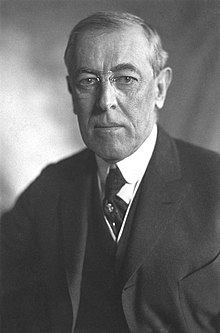
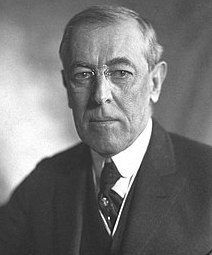
quiz results added
images updated, description for images added. CSS fixes.

diff --git a/quiz.html b/quiz.html
@@ -38,7 +38,7 @@
                             
                             <div class="form-check">
                                 <label class="form-check-label">
-                                    <input class="form-check-input" required type="radio" name="q1" value="2">
+                                    <input class="form-check-input" required type="radio" name="q1" value="2" >
                                     Strongly agree
                                 </label>
                             </div>
@@ -50,7 +50,7 @@
                             </div>
                             <div class="form-check">
                                 <label class="form-check-label">
-                                    <input class="form-check-input" required type="radio" name="q1" value="-1">
+                                    <input class="form-check-input" required type="radio" name="q1" value="-1" >
                                     Disagree
                                 </label>
                             </div>
@@ -78,7 +78,7 @@
                             </div>
                             <div class="form-check">
                                 <label class="form-check-label">
-                                    <input class="form-check-input" required type="radio" name="q2" value="-1">
+                                    <input class="form-check-input" required type="radio" name="q2" value="-1" >
                                     Agree
                                 </label>
                             </div>
@@ -90,7 +90,7 @@
                             </div>
                             <div class="form-check">
                                 <label class="form-check-label">
-                                    <input class="form-check-input" required type="radio" name="q2" value = "2" >
+                                    <input class="form-check-input" required type="radio" name="q2" value="2"  >
                                     Strongly disagree
                                 </label>
                             </div>
@@ -106,7 +106,7 @@
                             
                             <div class="form-check">
                                 <label class="form-check-label">
-                                    <input class="form-check-input" required type="radio" name="q3" value = "2" >
+                                    <input class="form-check-input" required type="radio" name="q3" value="2"  >
                                     Strongly agree
                                 </label>
                             </div>
@@ -118,7 +118,7 @@
                             </div>
                             <div class="form-check">
                                 <label class="form-check-label">
-                                    <input class="form-check-input" required type="radio" name="q3" value="-1">
+                                    <input class="form-check-input" required type="radio" name="q3" value="-1" >
                                     Disagree
                                 </label>
                             </div>
@@ -140,7 +140,7 @@
                             
                             <div class="form-check">
                                 <label class="form-check-label">
-                                    <input class="form-check-input" required type="radio" name="q4" value = "2" >
+                                    <input class="form-check-input" required type="radio" name="q4" value="2"  >
                                     Strongly agree
                                 </label>
                             </div>
@@ -152,7 +152,7 @@
                             </div>
                             <div class="form-check">
                                 <label class="form-check-label">
-                                    <input class="form-check-input" required type="radio" name="q4" value="-1">
+                                    <input class="form-check-input" required type="radio" name="q4" value="-1" >
                                     Disagree
                                 </label>
                             </div>
@@ -174,7 +174,7 @@
                             
                             <div class="form-check">
                                 <label class="form-check-label">
-                                    <input class="form-check-input" required type="radio" name="q5" value = "2" >
+                                    <input class="form-check-input" required type="radio" name="q5" value="2"  >
                                     Strongly agree
                                 </label>
                             </div>
@@ -186,7 +186,7 @@
                             </div>
                             <div class="form-check">
                                 <label class="form-check-label">
-                                    <input class="form-check-input" required type="radio" name="q5" value="-1">
+                                    <input class="form-check-input" required type="radio" name="q5" value="-1" >
                                     Disagree
                                 </label>
                             </div>
@@ -208,7 +208,7 @@
                             
                             <div class="form-check">
                                 <label class="form-check-label">
-                                    <input class="form-check-input" required type="radio" name="q6" value = "2" >
+                                    <input class="form-check-input" required type="radio" name="q6" value="2"  >
                                     Strongly agree
                                 </label>
                             </div>
@@ -220,7 +220,7 @@
                             </div>
                             <div class="form-check">
                                 <label class="form-check-label">
-                                    <input class="form-check-input" required type="radio" name="q6" value="-1">
+                                    <input class="form-check-input" required type="radio" name="q6" value="-1" >
                                     Disagree
                                 </label>
                             </div>
@@ -242,7 +242,7 @@
                             
                             <div class="form-check">
                                 <label class="form-check-label">
-                                    <input class="form-check-input" required type="radio" name="q7" value = "2" >
+                                    <input class="form-check-input" required type="radio" name="q7" value="2"  >
                                     Strongly agree
                                 </label>
                             </div>
@@ -254,7 +254,7 @@
                             </div>
                             <div class="form-check">
                                 <label class="form-check-label">
-                                    <input class="form-check-input" required type="radio" name="q7" value="-1">
+                                    <input class="form-check-input" required type="radio" name="q7" value="-1" >
                                     Disagree
                                 </label>
                             </div>
@@ -282,7 +282,7 @@
                             </div>
                             <div class="form-check">
                                 <label class="form-check-label">
-                                    <input class="form-check-input" required type="radio" name="q8" value="-1">
+                                    <input class="form-check-input" required type="radio" name="q8" value="-1" >
                                     Agree
                                 </label>
                             </div>
@@ -294,7 +294,7 @@
                             </div>
                             <div class="form-check">
                                 <label class="form-check-label">
-                                    <input class="form-check-input" required type="radio" name="q8" value = "2" >
+                                    <input class="form-check-input" required type="radio" name="q8" value="2"  >
                                     Strongly disagree
                                 </label>
                             </div>
@@ -310,7 +310,7 @@
                             
                             <div class="form-check">
                                 <label class="form-check-label">
-                                    <input class="form-check-input" required type="radio" name="q9" value = "2" >
+                                    <input class="form-check-input" required type="radio" name="q9" value="2"  >
                                     Strongly agree
                                 </label>
                             </div>
@@ -322,7 +322,7 @@
                             </div>
                             <div class="form-check">
                                 <label class="form-check-label">
-                                    <input class="form-check-input" required type="radio" name="q9" value="-1">
+                                    <input class="form-check-input" required type="radio" name="q9" value="-1" >
                                     Disagree
                                 </label>
                             </div>
@@ -344,7 +344,7 @@
                             
                             <div class="form-check">
                                 <label class="form-check-label">
-                                    <input class="form-check-input" required type="radio" name="q10" value = "2" >
+                                    <input class="form-check-input" required type="radio" name="q10" value="2"  >
                                     Strongly agree
                                 </label>
                             </div>
@@ -356,7 +356,7 @@
                             </div>
                             <div class="form-check">
                                 <label class="form-check-label">
-                                    <input class="form-check-input" required type="radio" name="q10" value="-1">
+                                    <input class="form-check-input" required type="radio" name="q10" value="-1" >
                                     Disagree
                                 </label>
                             </div>
@@ -384,7 +384,7 @@
                             </div>
                             <div class="form-check">
                                 <label class="form-check-label">
-                                    <input class="form-check-input" required type="radio" name="q11" value="-1">
+                                    <input class="form-check-input" required type="radio" name="q11" value="-1" >
                                     Agree
                                 </label>
                             </div>
@@ -396,7 +396,7 @@
                             </div>
                             <div class="form-check">
                                 <label class="form-check-label">
-                                    <input class="form-check-input" required type="radio" name="q11" value = "2" >
+                                    <input class="form-check-input" required type="radio" name="q11" value="2"  >
                                     Strongly disagree
                                 </label>
                             </div>
@@ -418,7 +418,7 @@
                             </div>
                             <div class="form-check">
                                 <label class="form-check-label">
-                                    <input class="form-check-input" required type="radio" name="q12" value="-1">
+                                    <input class="form-check-input" required type="radio" name="q12" value="-1" >
                                     Agree
                                 </label>
                             </div>
@@ -430,7 +430,7 @@
                             </div>
                             <div class="form-check">
                                 <label class="form-check-label">
-                                    <input class="form-check-input" required type="radio" name="q12" value = "2" >
+                                    <input class="form-check-input" required type="radio" name="q12" value="2"  >
                                     Strongly disagree
                                 </label>
                             </div>
@@ -446,7 +446,7 @@
                             
                             <div class="form-check">
                                 <label class="form-check-label">
-                                    <input class="form-check-input" required type="radio" name="q13" value = "2" >
+                                    <input class="form-check-input" required type="radio" name="q13" value="2"  >
                                     Strongly agree
                                 </label>
                             </div>
@@ -458,7 +458,7 @@
                             </div>
                             <div class="form-check">
                                 <label class="form-check-label">
-                                    <input class="form-check-input" required type="radio" name="q13" value="-1">
+                                    <input class="form-check-input" required type="radio" name="q13" value="-1" >
                                     Disagree
                                 </label>
                             </div>
@@ -486,7 +486,7 @@
                             </div>
                             <div class="form-check">
                                 <label class="form-check-label">
-                                    <input class="form-check-input" required type="radio" name="q14" value="-1">
+                                    <input class="form-check-input" required type="radio" name="q14" value="-1" >
                                     Agree
                                 </label>
                             </div>
@@ -498,7 +498,7 @@
                             </div>
                             <div class="form-check">
                                 <label class="form-check-label">
-                                    <input class="form-check-input" required type="radio" name="q14" value = "2">
+                                    <input class="form-check-input" required type="radio" name="q14" value="2" >
                                     Strongly disagree
                                 </label>
                             </div>
@@ -515,11 +515,12 @@
         <section id="afterQuiz" class="py-5 fullscreen">
             <div class="container introTxt">
                 <div id="ideoTxt">
-                    <h2>Your Ideology is: <span id="ideoShow"></span></h2>
+                    <h2>Your Ideology is: <br><span id="ideoShow"></span></h2>
                     <p id="showDesc"></p>
                 </div>
                 <div id="ideoAside">
                     <img alt="Ideology Image" id="ideoImg">
+                    <p class="text-muted font-italic mb-0 mt-1" id="imgDesc"></p>
                 </div>
             </div>
         </section>

diff --git a/js/ideologies.js b/js/ideologies.js
@@ -16,7 +16,7 @@ var ideologiesList = [
 //a class for ideologies
 class ideology{
     //the constructor
-    constructor(xmin, xmax, ymin, ymax, name, description){
+    constructor(xmin, xmax, ymin, ymax, name, description, image, imageDesc){
         //smallest x position on the political compass
         this.xmin = xmin;
         //highest x position on the political compass
@@ -28,20 +28,23 @@ class ideology{
         this.name = name;
         //the description of the ideology
         this.description = description;
+        //the name of the image + description of the image for this ideology
+        this.image = image;
+        this.imageDesc = imageDesc;
     }
 }
 
 //an array of all of the ideologies, instances of the ideology class.
 var ideologyObjects = [
-     facism = new ideology(0,14,8,14, "Fascism", "Fascism is a form of government which is a type of one-party dictatorship. Fascists are against democracy. They work for a totalitarian one-party state. This aim is to prepare the nation for armed conflict, and to respond to economic difficulties."),
-     conservatism = new ideology(2,14,2,8, "Conservatism", "Conservatism (or conservativism) is any political philosophy that favors tradition (in the sense of various religious, cultural, or nationally-defined beliefs and customs) in the face of external forces for change, and is critical of proposals for radical social change."),
-     ancap = new ideology(3,14,-14,-6, "Anarcho-Capitalism", "Anarcho-capitalism is a political philosophy and modern school of anarchist thought that advocates the elimination of centralized state domination in favor of self-ownership, private property and free markets."),
-     classlib = new ideology(2,14,-6,2, "Classical-Liberalism", "Classical liberalism. Classical liberalism is a political philosophy and ideology belonging to liberalism in which primary emphasis is placed on securing the freedom of the individual by limiting the power of the government."),
-     centre_right = new ideology(0,2,-6,8, "Centre-Right", "Centre-right politics, also referred to as moderate-right politics, are politics that lean to the right of the left-right political spectrum, but are closer to the centre than other right-wing variants. From the 1780s to the 1880s, there was a shift in the Western world of social class structure and the economy, moving away from the nobility and mercantilism, and moving towards the bourgeoisie and capitalism. "),
-     marxism = new ideology(-14,0,8,14, "Communism", "Communism is a political and economic system that seeks to create a classless society in which the major means of production, such as mines and factories, are owned and controlled by the public."),
-     socialism = new ideology(-14,-2,0,8, "Socialism", "Socialism is a range of economic and social systems characterised by social ownership of the means of production and workers' self-management, as well as the political theories and movements associated with them."),
-     ancom = new ideology(-14,-3,-14,-8, "Anarcho-Communism", "Anarchist communism advocates the abolition of the state, private property and capitalism in favor of common ownership or control of the means of production. Only through such collective control, it argues, can \"the individual\" be free of governmental domination and economic, that is, capitalist, exploitation. "),
-     demsoc = new ideology(-14,-2,-8,0, "Democratic-Socialism", "Democratic socialism is a political philosophy that advocates political democracy alongside a socially owned economy, with an emphasis on workers' self-management and democratic control of economic institutions within a market or some form of a decentralised planned socialist economy."),
-     centre_left = new ideology(-2,0,-8,8, "Centre-Left", "Centre-left politics are political views that lean to the left-wing political spectrum, but closer to the centre. Those on the centre-left believe in working within the established systems to improve social justice. The centre-left promotes a degree of social equality that it believes is achievable through promoting equal opportunity."),
-     liberterian = new ideology(-3,3,-14,-8, "Libertarianism", "Libertarianism is an idea in ethics and politics. Libertarians believe that people should be able to do whatever they desire as long as their actions do not harm others. Many of the beliefs of libertarianism are similar to the beliefs in classical liberalism. The most important and basic human rights, according to libertarianism, are life, liberty and property.")
+     facism = new ideology(0,14,8,14, "Fascism", "Fascism is a form of government which is a type of one-party dictatorship. Fascists are against democracy. They work for a totalitarian one-party state. This aim is to prepare the nation for armed conflict, and to respond to economic difficulties.", "Fascism", "Benito Mussolini"),
+     conservatism = new ideology(2,14,2,8, "Conservatism", "Conservatism (or conservativism) is any political philosophy that favors tradition (in the sense of various religious, cultural, or nationally-defined beliefs and customs) in the face of external forces for change, and is critical of proposals for radical social change.", "Conservatism", "Ronald Reagan"),
+     ancap = new ideology(3,14,-14,-6, "Anarcho-Capitalism", "Anarcho-capitalism is a political philosophy and modern school of anarchist thought that advocates the elimination of centralized state domination in favor of self-ownership, private property and free markets.", "Anarcho-Capitalism", "Lysander Spooner"),
+     classlib = new ideology(2,14,-6,2, "Classical-Liberalism", "Classical liberalism. Classical liberalism is a political philosophy and ideology belonging to liberalism in which primary emphasis is placed on securing the freedom of the individual by limiting the power of the government.", "Classical-Liberalism", "Friedrich Hayek"),
+     centre_right = new ideology(0,2,-6,8, "Centre-Right", "Centre-right politics, also referred to as moderate-right politics, are politics that lean to the right of the left-right political spectrum, but are closer to the centre than other right-wing variants. From the 1780s to the 1880s, there was a shift in the Western world of social class structure and the economy, moving away from the nobility and mercantilism, and moving towards the bourgeoisie and capitalism.", "Centre-Right", "Theodore Roosevelt"),
+     communism = new ideology(-14,0,8,14, "Communism", "Communism is a political and economic system that seeks to create a classless society in which the major means of production, such as mines and factories, are owned and controlled by the public.", "Communism", "Karl Marx"),
+     socialism = new ideology(-14,-2,0,8, "Socialism", "Socialism is a range of economic and social systems characterised by social ownership of the means of production and workers' self-management, as well as the political theories and movements associated with them.", "Socialism", "Leon Trotsky"),
+     ancom = new ideology(-14,-3,-14,-8, "Anarcho-Communism", "Anarchist communism advocates the abolition of the state, private property and capitalism in favor of common ownership or control of the means of production. Only through such collective control, it argues, can \"the individual\" be free of governmental domination and economic, that is, capitalist, exploitation.", "Anarcho-Communism", "Ayn Rand"),
+     demsoc = new ideology(-14,-2,-8,0, "Democratic-Socialism", "Democratic socialism is a political philosophy that advocates political democracy alongside a socially owned economy, with an emphasis on workers' self-management and democratic control of economic institutions within a market or some form of a decentralised planned socialist economy.", "Democratic-Socialism", "Franklin D. Roosevelt"),
+     centre_left = new ideology(-2,0,-8,8, "Centre-Left", "Centre-left politics are political views that lean to the left-wing political spectrum, but closer to the centre. Those on the centre-left believe in working within the established systems to improve social justice. The centre-left promotes a degree of social equality that it believes is achievable through promoting equal opportunity.", "Centre-Left", "Woodrow Wilson"),
+     liberterian = new ideology(-3,3,-14,-8, "Libertarianism", "Libertarianism is an idea in ethics and politics. Libertarians believe that people should be able to do whatever they desire as long as their actions do not harm others. Many of the beliefs of libertarianism are similar to the beliefs in classical liberalism. The most important and basic human rights, according to libertarianism, are life, liberty and property.", "Liberterianism", "John Locke")
 ];

diff --git a/css/styles.css b/css/styles.css
@@ -5,6 +5,7 @@
 }
 *{
     box-sizing: border-box;
+    overflow:auto;
 }
 #intro{
     background-image:url(../img/protest.jpg);
@@ -49,7 +50,7 @@
     text-decoration: underline var(--yellow);
 }
 .card-header{
-    background:#f9f9f9; 
+    background:#f9f9f9;
 }
 .soc{
     border-bottom:2px solid var(--red);
@@ -69,14 +70,16 @@ footer{
     float:right;
     align-items:right;
     object-fit:cover;
+    text-align:center;
 }
 #ideoAside img{
-    height:300px;
-    width:auto;
+    width:100%;
+    object-fit: cover;
     border-radius:8px;
 }
 #ideoTxt{
     width:60%;
+    padding-right:35px;
     float:left;
 }
 .fullscreen{
@@ -88,6 +91,9 @@ footer{
         width:100%;
         float:none;
         align-items:center;
+    }
+    #ideoTxt{
+        padding-right:0;
     }
     #ideoAside img{
         height:350px;

diff --git a/js/quiz.js b/js/quiz.js
@@ -83,7 +83,13 @@ function submitQuiz(){
     }
     //add an image of a person of that ideology
     const ideoImg = document.getElementById('ideoImg');
-    ideoImg.src = 'img/ideologies/'+quizResultIdeo+'.jpg';
+    ideoImg.src = 'img/ideologies/'+quizResult[0].image+'.jpg';
+    //add a description to the image
+    const imgDescE = document.getElementById('imgDesc');
+    imgDescE.innerText = quizResult[0].imageDesc;
+    //set the image height to the text height
+    const txtHeight = document.getElementById('ideoTxt').offsetHeight;
+    ideoImg.offsetHeight = txtHeight+30;
 
     //add the description to the ideology
     const ideoDesc = document.getElementById('showDesc');

diff --git a/js/nav.js b/js/nav.js
@@ -1,7 +1,7 @@
 document.getElementById('navbar').innerHTML = `
 <nav class="site-header sticky-top py-2 navbar navbar-expand-sm navbar-dark">
             <div class="container">
-                <a class="navbar-brand px-4" href="#"><i class="fas fa-landmark fa-lg"></i></a>
+                <a class="navbar-brand px-4" href="index.html"><i class="fas fa-landmark fa-lg"></i></a>
 
                 <button class="navbar-toggler" type="button" data-toggle="collapse" data-target="#nav" aria-controls="nav" aria-expanded="false" aria-label="Toggle navigation">    
                     <span class="navbar-toggler-icon"></span>
